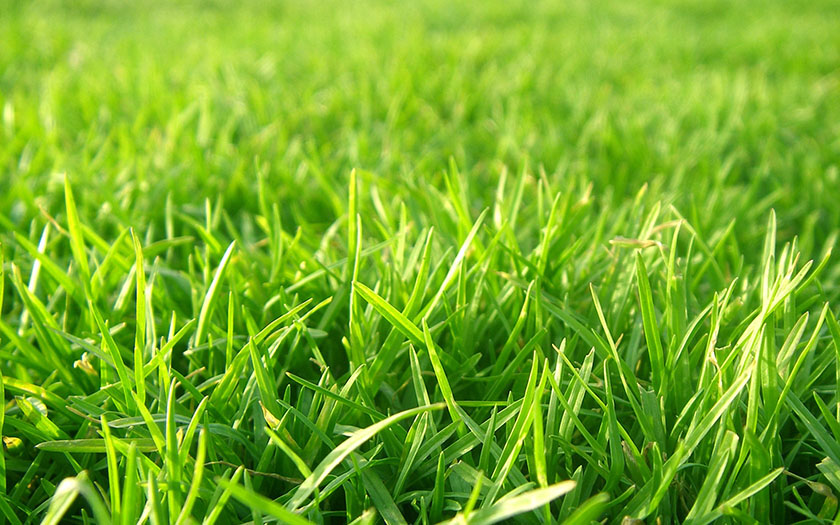
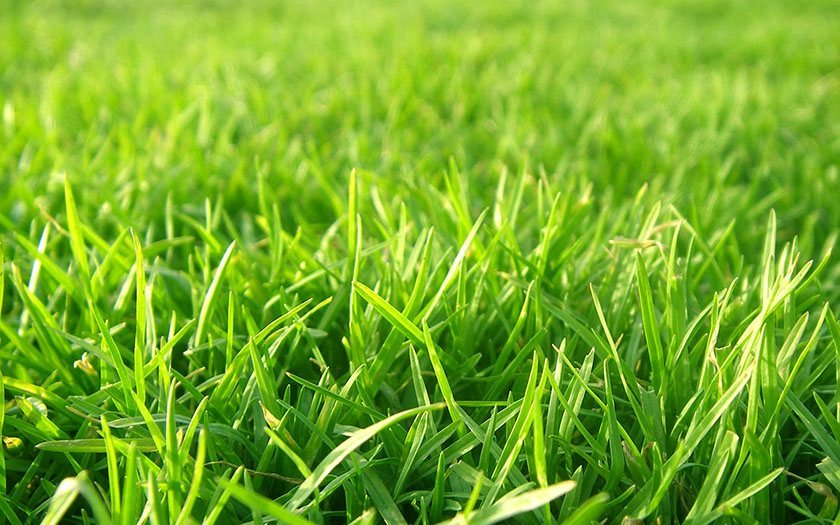
Page optimisation
Optimising images, and minifying css

diff --git a/styles/css/style.css b/styles/css/style.css
@@ -1,289 +1,4 @@
 /*!
  *  Font Awesome 4.0.3 by @davegandy - http://fontawesome.io - @fontawesome
  *  License - http://fontawesome.io/license (Font: SIL OFL 1.1, CSS: MIT License)
- */
-/* FONT PATH
- * -------------------------- */
-@font-face {
-  font-family: 'FontAwesome';
-  src: url("../font/fontawesome-webfont.eot") format("embedded-opentype"), url("../font/fontawesome-webfont.woff") format("woff"), url("../font/fontawesome-webfont.ttf") format("truetype"), url("../font/fontawesome-webfont.svg") format("svg");
-  font-weight: normal;
-  font-style: normal;
-}
-.fa {
-  display: inline-block;
-  font-family: FontAwesome;
-  font-style: normal;
-  font-weight: normal;
-  line-height: 1;
-  -webkit-font-smoothing: antialiased;
-  -moz-osx-font-smoothing: grayscale;
-}
-
-.fa-linkedin:before {
-  content: "\f0e1";
-}
-
-.fa-twitter:before {
-  content: "\f099";
-}
-
-.fa-youtube:before {
-  content: "\f167";
-}
-
-* {
-  margin: 0;
-  padding: 0;
-}
-
-body {
-  font-family: 'Lato', sans-serif;
-  font-weight: 700;
-  -webkit-font-smoothing: antialiased;
-  -moz-osx-font-smoothing: grayscale;
-}
-
-.cf:after {
-  content: "";
-  display: table;
-  clear: both;
-}
-
-p {
-  color: black;
-  font-size: 1.2em;
-  padding-top: 1em;
-}
-
-section p:first-of-type {
-  padding-top: 1em;
-}
-
-section:last-child {
-  padding-bottom: 1em;
-}
-
-a {
-  text-decoration: none;
-}
-a:hover {
-  color: #a4a4a4;
-  -webkit-transition: all 0.2s ease-in-out;
-  -moz-transition: all 0.2s ease-in-out;
-  -ms-transition: all 0.2s ease-in-out;
-  -o-transition: all 0.2s ease-in-out;
-  transition: all 0.2s ease-in-out;
-}
-
-header {
-  height: 15em;
-  background: url(/img/hero-overlay.png), url(/img/hero.jpg) no-repeat;
-  background-position: center;
-  background-size: auto, cover;
-  background-repeat: repeat, no-repeat;
-}
-header div {
-  max-width: 1400px;
-  margin: 0 1em;
-}
-header p {
-  color: white;
-  margin: 0;
-  padding: 0;
-}
-header a {
-  color: white;
-  font-size: 1.5em;
-}
-
-nav {
-  max-width: 1400px;
-  margin: 0 1em;
-  padding: 3em 0 1.5em 0;
-}
-nav h1 {
-  float: left;
-}
-nav h1 a {
-  font-weight: 900;
-  font-size: 1em;
-  color: white;
-}
-nav ul {
-  clear: left;
-  list-style-type: none;
-}
-nav ul li {
-  font-size: 0.7em;
-  display: inline-block;
-  padding-right: 1em;
-}
-nav .social {
-  margin-top: 0.5em;
-  clear: none;
-  float: right;
-  padding-right: 0;
-  padding-left: 1em;
-  text-align: right;
-  width: auto;
-  display: none;
-  font-size: 1.5em;
-}
-
-section, footer > div {
-  max-width: 1400px;
-  margin: 0 1em;
-}
-section p, footer > div p {
-  text-align: justify;
-}
-
-#first {
-  background: #C2D7E3;
-}
-#first img {
-  float: right;
-  width: 60%;
-  margin-left: 1em;
-  display: none;
-  margin: 4em 0 4em 2em;
-}
-
-#second {
-  background: #7bb9de;
-}
-#second p {
-  color: #f4f4f4;
-}
-#second a {
-  color: #51595E;
-}
-#second a:hover {
-  color: #fff;
-}
-#second ul {
-  padding-top: 1em;
-  font-size: 1.2em;
-  list-style-type: none;
-}
-
-footer {
-  background: #51595E;
-}
-footer p {
-  color: white;
-}
-footer ul {
-  padding: 0.5em 0;
-  list-style-type: none;
-}
-footer ul li {
-  padding: 0.5em 0;
-  font-size: 0.7em;
-}
-footer a {
-  color: white;
-  font-size: 1.5em;
-}
-footer .social {
-  width: auto;
-  font-size: 1em;
-}
-footer .social span {
-  font-size: 2em;
-  width: 50px;
-}
-
-@media only screen and (min-width: 519px) {
-  section p:first-of-type {
-    padding-top: 3em;
-  }
-
-  section:last-child {
-    padding-bottom: 3em;
-  }
-
-  header {
-    height: 25em;
-  }
-  header p {
-    font-size: 1.8em;
-  }
-  header div {
-    width: 90%;
-    margin: 0 auto;
-  }
-
-  nav {
-    width: 90%;
-    margin: 0 auto;
-    padding: 3em 0 1.5em 0;
-  }
-  nav h1 {
-    font-size: 3em;
-  }
-  nav ul li {
-    font-size: 1em;
-  }
-
-  body > div, footer {
-    padding: 2em 0;
-  }
-
-  section, footer > div {
-    width: 90%;
-    margin: 0 auto;
-  }
-}
-@media only screen and (min-width: 760px) {
-  #first img {
-    display: block;
-    min-width: 300px;
-  }
-
-  nav .social {
-    display: block;
-  }
-
-  footer .social {
-    display: block;
-  }
-}
-@media only screen and (min-width: 960px) {
-  section p:first-of-type {
-    padding-top: 2em;
-  }
-
-  section:last-child {
-    padding-bottom: 2em;
-  }
-
-  section, footer > div {
-    width: 85%;
-    margin: 0 auto;
-  }
-
-  nav {
-    width: 85%;
-  }
-
-  header div {
-    width: 85%;
-  }
-
-  #first img {
-    margin-top: 0;
-    margin-bottom: 0;
-    min-width: 500px;
-  }
-}
-@media only screen and (min-width: 1200px) {
-  section p:first-of-type {
-    padding-top: 3em;
-  }
-
-  section:last-child {
-    padding-bottom: 3em;
-  }
-}
+ */@font-face{font-family:'FontAwesome';src:url("../font/fontawesome-webfont.eot") format("embedded-opentype"),url("../font/fontawesome-webfont.woff") format("woff"),url("../font/fontawesome-webfont.ttf") format("truetype"),url("../font/fontawesome-webfont.svg") format("svg");font-weight:normal;font-style:normal}.fa{display:inline-block;font-family:FontAwesome;font-style:normal;font-weight:normal;line-height:1;-webkit-font-smoothing:antialiased;-moz-osx-font-smoothing:grayscale}.fa-linkedin:before{content:"\f0e1"}.fa-twitter:before{content:"\f099"}.fa-youtube:before{content:"\f167"}*{margin:0;padding:0}body{font-family:'Lato', sans-serif;font-weight:700;-webkit-font-smoothing:antialiased;-moz-osx-font-smoothing:grayscale}.cf:after{content:"";display:table;clear:both}p{color:#000;font-size:1.2em;padding-top:1em}section p:first-of-type{padding-top:1em}section:last-child{padding-bottom:1em}a{text-decoration:none}a:hover{color:#a4a4a4;-webkit-transition:all 0.2s ease-in-out;transition:all 0.2s ease-in-out}header{height:15em;background:url(/img/hero-overlay.png),url(/img/hero.jpg) no-repeat;background-position:center;-webkit-background-size:auto, cover;background-size:auto, cover;background-repeat:repeat, no-repeat}header div{max-width:1400px;margin:0 1em}header p{color:#fff;margin:0;padding:0}header a{color:#fff;font-size:1.5em}nav{max-width:1400px;margin:0 1em;padding:3em 0 1.5em 0}nav h1{float:left}nav h1 a{font-weight:900;font-size:1em;color:#fff}nav ul{clear:left;list-style-type:none}nav ul li{font-size:0.7em;display:inline-block;padding-right:1em}nav .social{margin-top:0.5em;clear:none;float:right;padding-right:0;padding-left:1em;text-align:right;width:auto;display:none;font-size:1.5em}section,footer>div{max-width:1400px;margin:0 1em}section p,footer>div p{text-align:justify}#first{background:#C2D7E3}#first img{float:right;width:60%;margin-left:1em;display:none;margin:4em 0 4em 2em}#second{background:#7bb9de}#second p{color:#f4f4f4}#second a{color:#51595E}#second a:hover{color:#fff}#second ul{padding-top:1em;font-size:1.2em;list-style-type:none}footer{background:#51595E}footer p{color:#fff}footer ul{padding:0.5em 0;list-style-type:none}footer ul li{padding:0.5em 0;font-size:0.7em}footer a{color:#fff;font-size:1.5em}footer .social{width:auto;font-size:1em}footer .social span{font-size:2em;width:50px}@media only screen and (min-width: 519px){section p:first-of-type{padding-top:3em}section:last-child{padding-bottom:3em}header{height:25em}header p{font-size:1.8em}header div{width:90%;margin:0 auto}nav{width:90%;margin:0 auto;padding:3em 0 1.5em 0}nav h1{font-size:3em}nav ul li{font-size:1em}body>div,footer{padding:2em 0}section,footer>div{width:90%;margin:0 auto}}@media only screen and (min-width: 760px){#first img{display:block;min-width:300px}nav .social{display:block}footer .social{display:block}}@media only screen and (min-width: 960px){section p:first-of-type{padding-top:2em}section:last-child{padding-bottom:2em}section,footer>div{width:85%;margin:0 auto}nav{width:85%}header div{width:85%}#first img{margin-top:0;margin-bottom:0;min-width:500px}}@media only screen and (min-width: 1200px){section p:first-of-type{padding-top:3em}section:last-child{padding-bottom:3em}}
